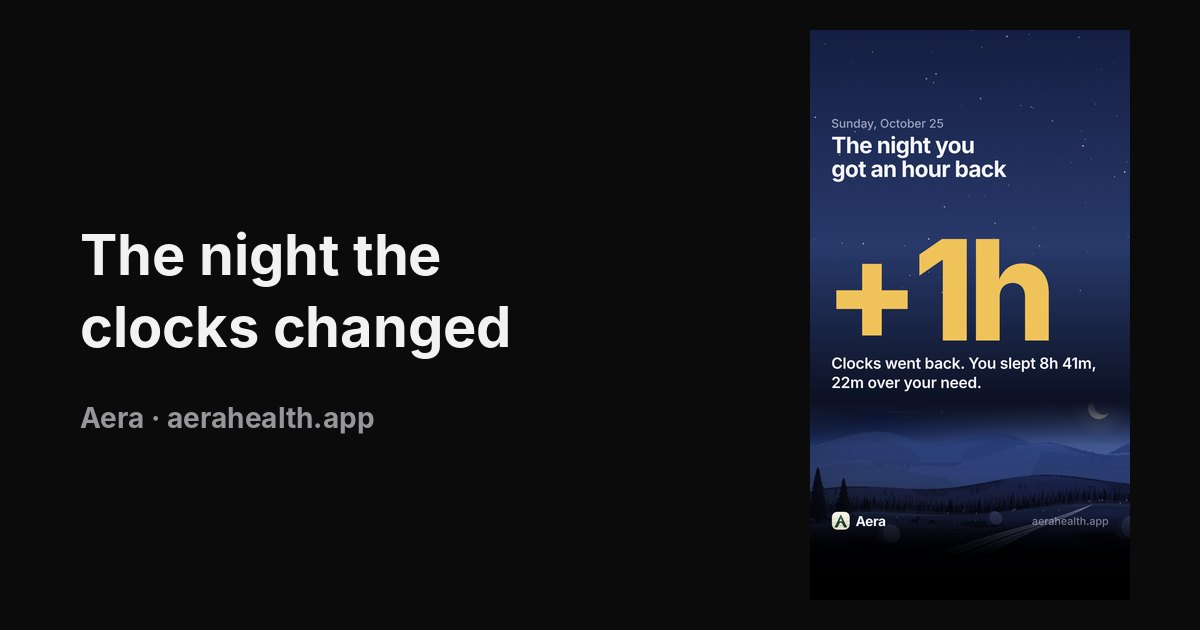
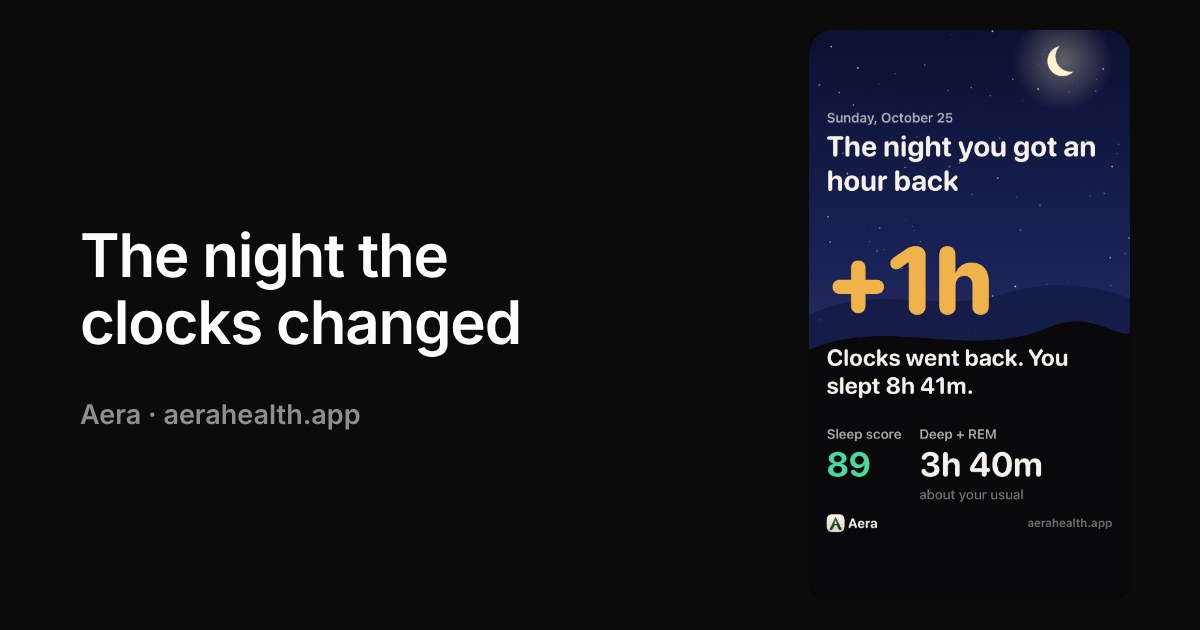
Share-link pages for the personal-best sticker and the week card (#54)
* Add /s/pb and /s/week share-link pages

Claude-Session: https://claude.ai/code/session_01JD3qE2qzQZgM2rcFbpRkpf

* Share pages: real week card for /s/week

The /s/week preview now uses the simulator render of the week film card in
place of the stand-in. /s/pb keeps its stand-in until its render exists.

Claude-Session: https://claude.ai/code/session_01ExgqbXX1ob2a1dmsLYKPDP

* Share pages: real app renders for the sticker, week and clock cards

pb.jpg, week.jpg and sleep-clock.jpg now show the cards rendered by the app in
the simulator (Aera #127), set in the same layout as the workout preview. The
sticker's transparency checkerboard is keyed out onto a night backdrop.

Claude-Session: https://claude.ai/code/session_01ExgqbXX1ob2a1dmsLYKPDP

---------

diff --git a/s/pb/index.html b/s/pb/index.html
@@ -1,0 +1,32 @@
+<!doctype html>
+<html lang="en"><head><meta charset="utf-8">
+<meta name="viewport" content="width=device-width, initial-scale=1">
+<meta name="robots" content="noindex">
+<title>That best, as a sticker · Aera</title>
+<meta name="description" content="A personal best as a sticker for your own photo. Shared from Aera.">
+<link rel="canonical" href="https://aerahealth.app/s/pb/">
+<meta property="og:title" content="That best, as a sticker">
+<meta property="og:description" content="A personal best as a sticker for your own photo. Shared from Aera.">
+<meta property="og:type" content="website">
+<meta property="og:site_name" content="Aera">
+<meta property="og:url" content="https://aerahealth.app/s/pb/">
+<meta property="og:image" content="https://aerahealth.app/assets/share/pb.jpg">
+<meta property="og:image:width" content="1200">
+<meta property="og:image:height" content="630">
+<meta name="twitter:card" content="summary_large_image">
+<meta name="twitter:title" content="That best, as a sticker">
+<meta name="twitter:description" content="A personal best as a sticker for your own photo. Shared from Aera.">
+<meta name="twitter:image" content="https://aerahealth.app/assets/share/pb.jpg">
+<meta http-equiv="refresh" content="2; url=https://apps.apple.com/app/id6762456252?ct=share-pb&mt=8">
+<script>
+// Same pattern as /get: let the Cloudflare beacon report the visit first, then go.
+// Link previews read the meta above and never run this.
+(function () {
+  var go = function () { location.replace("https://apps.apple.com/app/id6762456252?ct=share-pb&mt=8"); };
+  addEventListener('load', function () { setTimeout(go, 400); });
+  setTimeout(go, 1500);
+})();
+</script>
+<style>body{margin:0;min-height:100vh;display:grid;place-items:center;font:17px/1.4 -apple-system,system-ui,sans-serif;background:#f6f4ef;color:#1c1c1e}@media (prefers-color-scheme:dark){body{background:#0b0b0c;color:#f2f2f2}}a{color:inherit}</style>
+<script defer src="https://static.cloudflareinsights.com/beacon.min.js" data-cf-beacon='{"token": "4fc0403d67364f1ab92526387bdd0b81"}'></script>
+</head><body><p><a href="https://apps.apple.com/app/id6762456252?ct=share-pb&mt=8">Open Aera on the App Store</a></p></body></html>

diff --git a/s/week/index.html b/s/week/index.html
@@ -1,0 +1,32 @@
+<!doctype html>
+<html lang="en"><head><meta charset="utf-8">
+<meta name="viewport" content="width=device-width, initial-scale=1">
+<meta name="robots" content="noindex">
+<title>Your week, read back · Aera</title>
+<meta name="description" content="Seven days of training and sleep in one card. Shared from Aera.">
+<link rel="canonical" href="https://aerahealth.app/s/week/">
+<meta property="og:title" content="Your week, read back">
+<meta property="og:description" content="Seven days of training and sleep in one card. Shared from Aera.">
+<meta property="og:type" content="website">
+<meta property="og:site_name" content="Aera">
+<meta property="og:url" content="https://aerahealth.app/s/week/">
+<meta property="og:image" content="https://aerahealth.app/assets/share/week.jpg">
+<meta property="og:image:width" content="1200">
+<meta property="og:image:height" content="630">
+<meta name="twitter:card" content="summary_large_image">
+<meta name="twitter:title" content="Your week, read back">
+<meta name="twitter:description" content="Seven days of training and sleep in one card. Shared from Aera.">
+<meta name="twitter:image" content="https://aerahealth.app/assets/share/week.jpg">
+<meta http-equiv="refresh" content="2; url=https://apps.apple.com/app/id6762456252?ct=share-week&mt=8">
+<script>
+// Same pattern as /get: let the Cloudflare beacon report the visit first, then go.
+// Link previews read the meta above and never run this.
+(function () {
+  var go = function () { location.replace("https://apps.apple.com/app/id6762456252?ct=share-week&mt=8"); };
+  addEventListener('load', function () { setTimeout(go, 400); });
+  setTimeout(go, 1500);
+})();
+</script>
+<style>body{margin:0;min-height:100vh;display:grid;place-items:center;font:17px/1.4 -apple-system,system-ui,sans-serif;background:#f6f4ef;color:#1c1c1e}@media (prefers-color-scheme:dark){body{background:#0b0b0c;color:#f2f2f2}}a{color:inherit}</style>
+<script defer src="https://static.cloudflareinsights.com/beacon.min.js" data-cf-beacon='{"token": "4fc0403d67364f1ab92526387bdd0b81"}'></script>
+</head><body><p><a href="https://apps.apple.com/app/id6762456252?ct=share-week&mt=8">Open Aera on the App Store</a></p></body></html>
